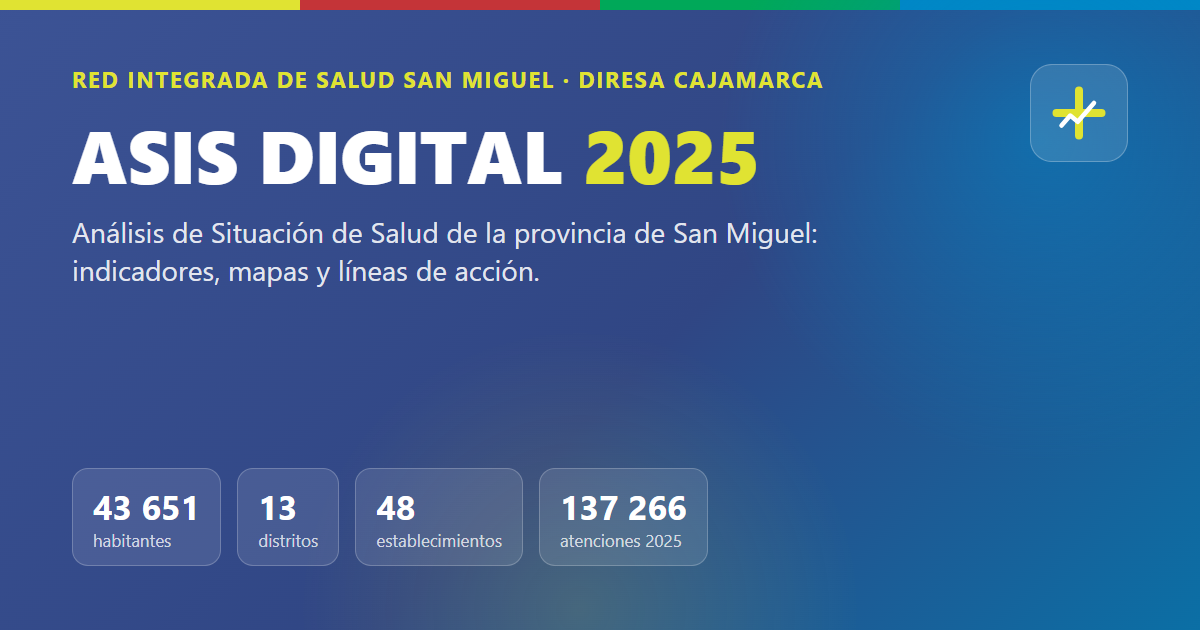
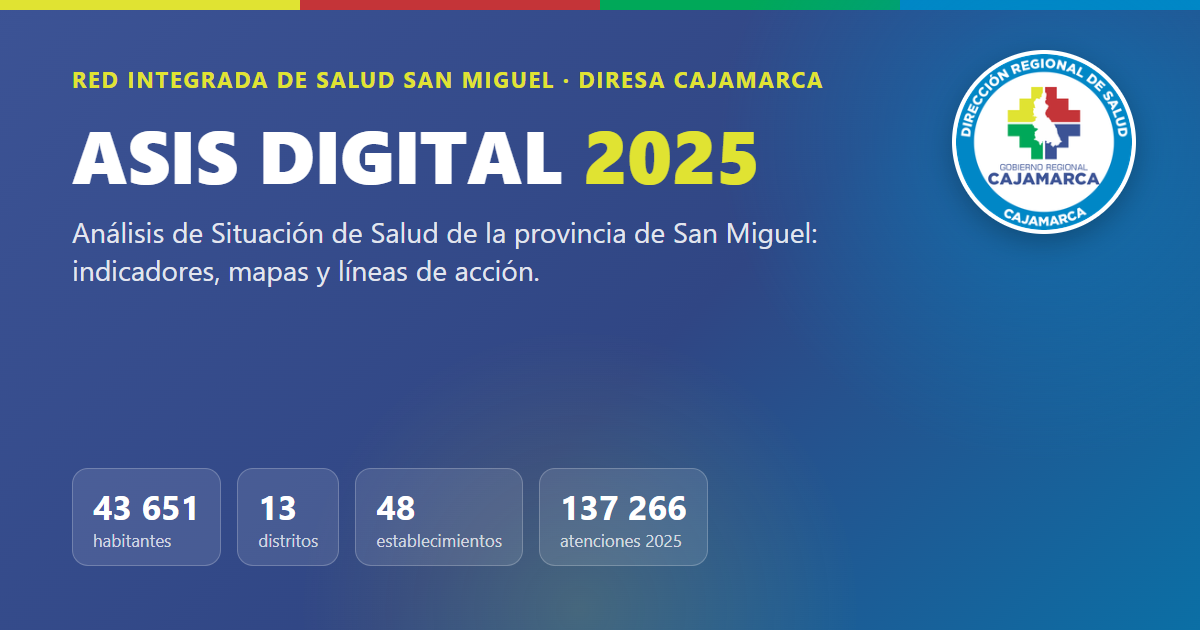
Agrega el emblema de la DIRESA a la imagen de vista previa para compartir

Changed region(s): [[0.7708, 0.0603, 0.9558, 0.3921]]

diff --git a/scripts/og-2025.html b/scripts/og-2025.html
@@ -5,15 +5,15 @@ body{background:linear-gradient(135deg,#3c5395 0%,#304684 55%,#0b6fa5 100%);colo
 .g2{position:absolute;left:300px;bottom:-260px;width:560px;height:560px;border-radius:50%;background:radial-gradient(closest-side,rgba(224,227,50,.16),transparent)}
 .in{position:absolute;inset:64px 72px}
 .k{font-size:22px;letter-spacing:.08em;text-transform:uppercase;color:#e0e332;font-weight:700}
-h1{font-size:74px;line-height:1.02;margin:22px 0 0;font-weight:800}
+h1{max-width:820px;font-size:74px;line-height:1.02;margin:22px 0 0;font-weight:800}
 h1 span{color:#e0e332}
 p{font-size:28px;line-height:1.35;color:rgba(255,255,255,.86);margin:22px 0 0;max-width:820px}
 .row{position:absolute;left:0;bottom:0;display:flex;gap:16px}
 .c{background:rgba(255,255,255,.1);border:1px solid rgba(255,255,255,.22);border-radius:16px;padding:14px 20px}
 .c b{display:block;font-size:34px}.c s{text-decoration:none;font-size:17px;color:rgba(255,255,255,.75)}
-.logo{position:absolute;right:0;top:0;width:96px;height:96px;border-radius:22px;background:rgba(255,255,255,.12);border:1px solid rgba(255,255,255,.25);display:grid;place-items:center}
+.logo{position:absolute;right:-8px;top:-14px;width:176px;height:176px;border-radius:50%;background:#fff;box-shadow:0 8px 30px rgba(0,0,0,.28);border:4px solid rgba(255,255,255,.85)}
 </style></head><body><div style="position:absolute;left:0;right:0;top:0;height:10px;background:linear-gradient(90deg,#e0e332 0 25%,#c43438 25% 50%,#00a859 50% 75%,#0087c6 75% 100%)"></div><div class="g1"></div><div class="g2"></div><div class="in">
-<div class="logo"><svg width="60" height="60" viewBox="0 0 24 24" fill="none"><path d="M12 3v18M3 12h18" stroke="#e0e332" stroke-width="3.2" stroke-linecap="round"/><path d="M5 17l3.5-4 3 2.5L18 8" stroke="#fff" stroke-width="1.8" stroke-linecap="round" stroke-linejoin="round"/></svg></div>
+<img class="logo" src="img/logo-diresa-cajamarca-192.png" alt="">
 <div class="k">Red Integrada de Salud San Miguel · DIRESA Cajamarca</div>
 <h1>ASIS DIGITAL <span>2025</span></h1>
 <p>Análisis de Situación de Salud de la provincia de San Miguel: indicadores, mapas y líneas de acción.</p>
